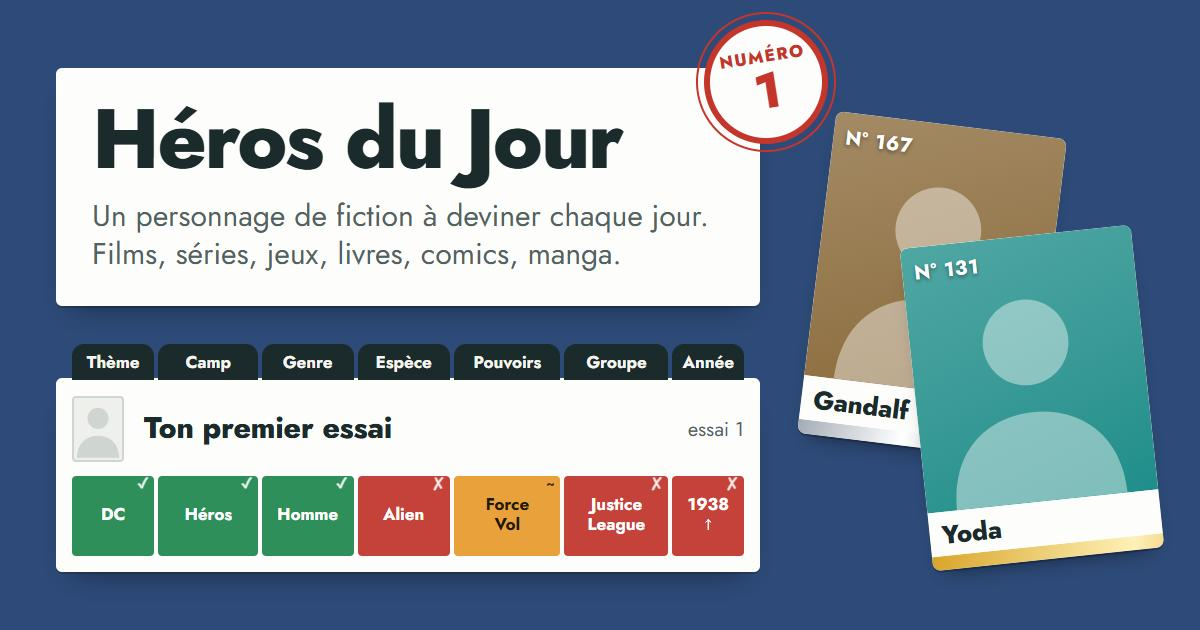
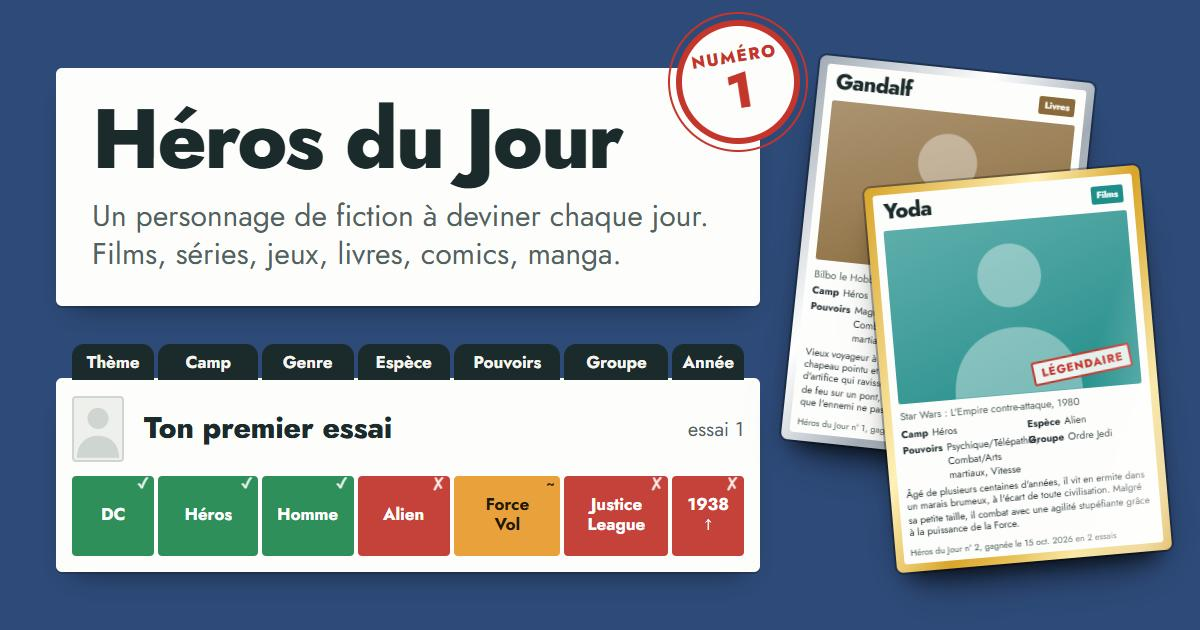
Étape 20 : l'image d'aperçu montre de vraies cartes du jeu (procédure de mise à jour notée)

Changed region(s): [[0.555, 0.0, 0.9867, 0.9349]]

diff --git a/BRIEF.md b/BRIEF.md
@@ -342,7 +342,7 @@ Même méthode qu'avant : une étape à la fois, test précis, validation de Luc
 
 - **Étape 19 : Nouveaux personnages (films, séries, jeux vidéo, livres) et colonne « Thème »** (réalisée et validée par Luca le 16 octobre 2026 ; le « ? » explique la règle du thème de première apparition) — la colonne « Univers » du jeu s'appelle maintenant **« Thème »** (le champ reste `univers` dans les données) : pour les comics, l'éditeur (Marvel, DC) ou « Indé » ; sinon le support de la toute première apparition (Manga, Films, Séries, Jeux vidéo, Livres), comme pour l'année. **48 personnages ajoutés** (12 par nouveau thème, les plus populaires), ce qui fait **175 personnages** ; nouveaux groupes (Ordre Jedi, Alliance rebelle, Empire galactique, Skynet, Zion, Starfleet, Confrérie des Assassins, Ordre du Phénix, Mangemorts, Communauté de l'Anneau) et nouvelles couleurs de thème (Jeux vidéo : bleu clair, Livres : brun). Dates et œuvres vérifiées en ligne pour les cas douteux (Geralt 1986, Homer 1987, Solid Snake 1987, Arsène Lupin 1905, Spock 1966, Daryl Dixon 2010). Contrôles automatiques : 4 phrases par description, valeurs autorisées, aucun nom dans les textes d'indice. Les nouveaux personnages sont à la FIN du calendrier : **avant le lancement officiel (étape 10), mélanger le calendrier pour alterner les thèmes dès les premiers jours** (c'est permis tant que le jeu n'est pas lancé).
 - **📋 Prochaines étapes décidées par Luca (16 octobre 2026), une à la fois, dans cet ordre** :
-  - **Étape 20 : Aperçu du lien partagé** (réalisée le 16 octobre 2026, en attente de validation de Luca ; image `images/apercu.jpg` 1200×630 fabriquée depuis `maquettes/apercu.html` en capturant la page à 600×315 en double densité ; balises dans `index.html`) — une image d'aperçu (dessinée par nous, dans le style du site, aucune image officielle) pour WhatsApp, Discord, Messenger… (balises `og:image`).
+  - **Étape 20 : Aperçu du lien partagé** (réalisée le 16 octobre 2026, en attente de validation de Luca ; image `images/apercu.jpg` 1200×630 fabriquée depuis `maquettes/apercu.html` en capturant la page à 600×315 en double densité ; balises dans `index.html`). **Règle voulue par Luca : l'image d'aperçu montre de VRAIES cartes du jeu** (elles sont fabriquées par le vrai code `js/carte.js`, avec les vraies données). **Quand les images des personnages seront ajoutées au site, refaire la capture** pour que l'aperçu reste cohérent : ouvrir `maquettes/apercu.html` à 600×315 (mode clair), capturer, remplacer `images/apercu.jpg`, vérifier que la taille reste sous 300 Ko ; penser aussi à y mettre les crédits si besoin. — une image d'aperçu (dessinée par nous, dans le style du site, aucune image officielle) pour WhatsApp, Discord, Messenger… (balises `og:image`).
   - **Étape 21 : Installer le jeu sur l'écran d'accueil** — icône, plein écran, fonctionnement sans réseau (application web installable).
   - **Étape 22 : Bouton « Signaler une erreur »** sur la fiche d'un personnage : ouvre un e-mail déjà rempli (nom du personnage) vers jourduheros@gmail.com ; rien n'est collecté par le site.
   - **Étape 23 : Succès à débloquer** (7 jours d'affilée, première Légendaire, collection d'un thème complète…), affichés dans le profil.
